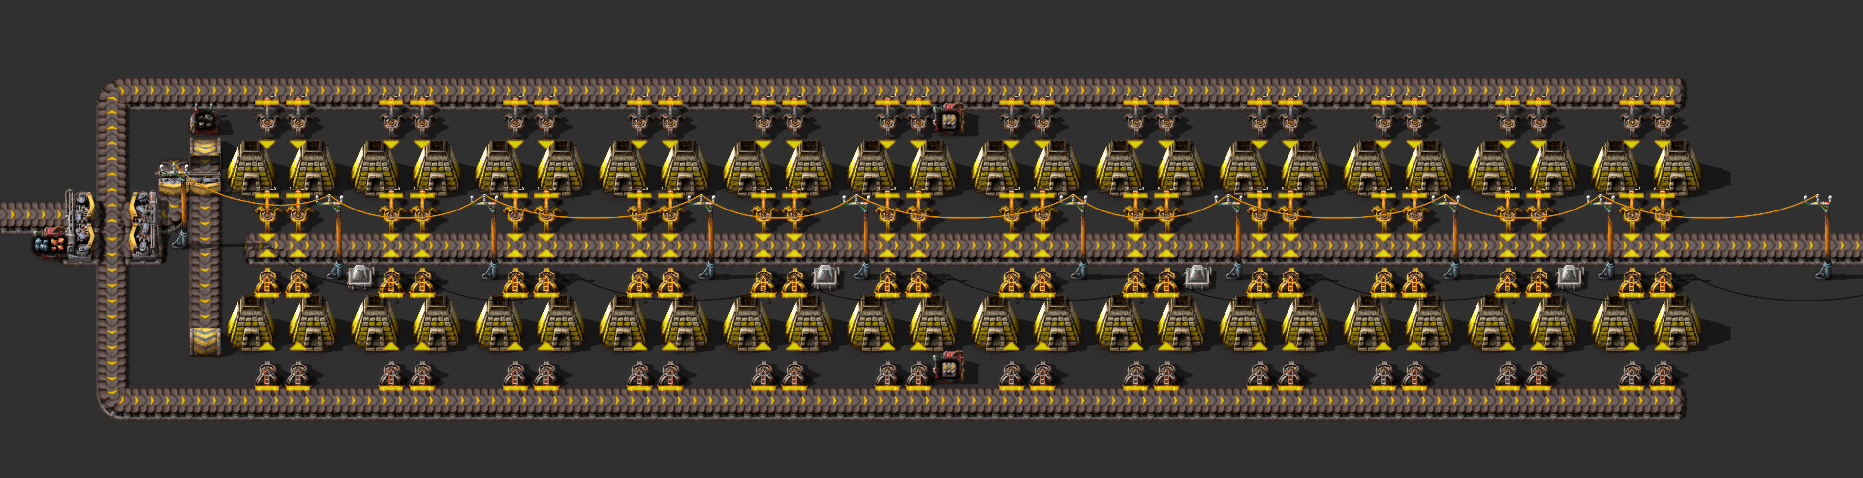
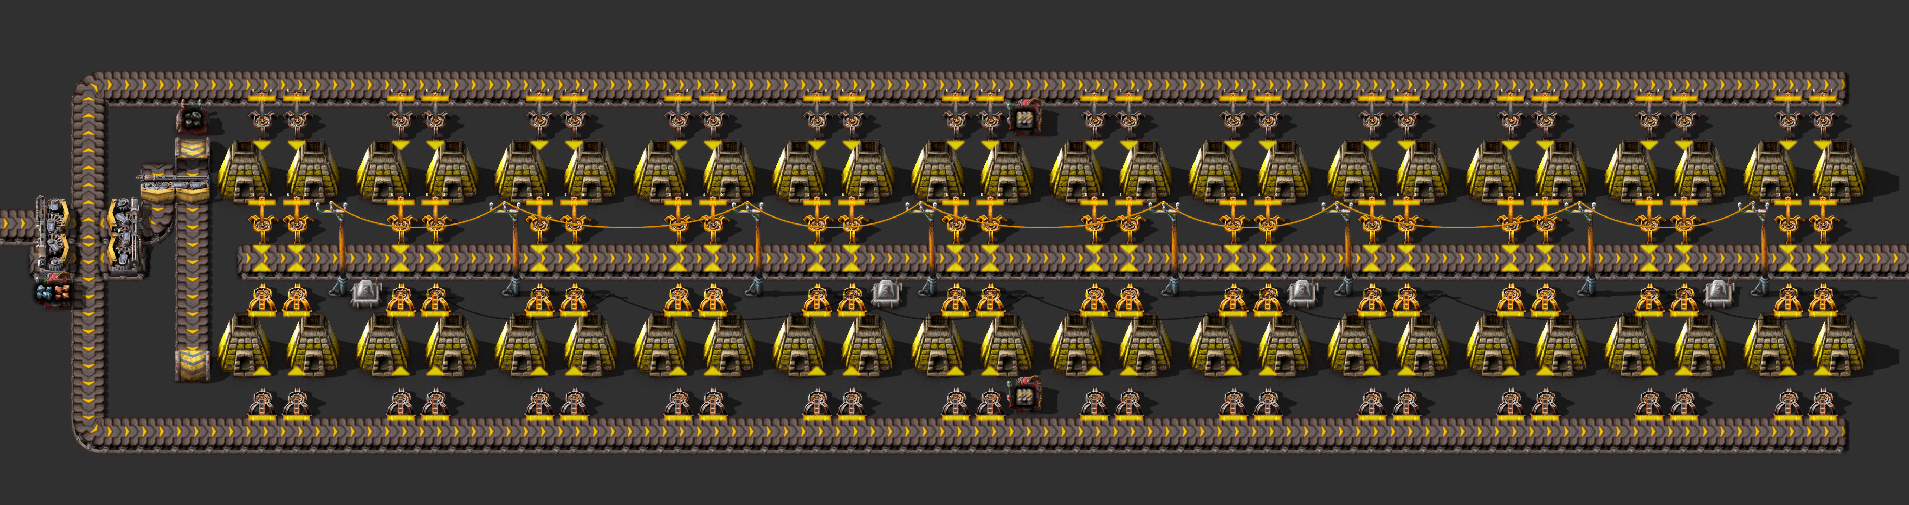
updated article

diff --git a/docs/RawResourcesProcessing/README.md b/docs/RawResourcesProcessing/README.md
@@ -1,5 +1,13 @@
 # Плавка ресурсов
 
+:::info Капитан очевидность
+В игре пресутсвуют [три типа плавильных печей](https://wiki.factorio.com/Furnace): каменные `Stone furnace`, стальные `Steel furnace` и электрические `Electric furnace`. Каменные печи доступны сразу, одна даже будет в рюкзаке при старте игры. Стальные печи появятся чуть позже, освоить их использование возможно до момента [первого выхода с базы](../HowToStartNewGame/README.md#первый-выход-с-базы), то есть в течении первых часов игры. Электрические же печи станут доступны исчё позже, внедрить несколько электрических штучек, особенно для плавки камней `Stone`, можно будет с открытием фиолетовой науки, она же производственный исследовательский пакет `Production science pack`. Массовый же переход на них производим [после запуска первого спутника](../HowToStartNewGame/README.md#после-запуска-спутника). До наличия достаточного количества ресурсов (дофига нужно) для производства вторых модулей эффективности `Efficiency module 2` проку в электрической плавке немного.
+:::
+
+:::warning Будет много картинок и не только
+Статья напичкана всякими подробностями от которых можно [впасть в объятия Морфея](https://ru.wikipedia.org/wiki/%D0%9C%D0%BE%D1%80%D1%84%D0%B5%D0%B9).
+:::
+
 :::info Плавятся не все ресурсы, а только:
 * железная руда `Iron ore` в железные плиты `Iron plate`,
 * медная руда `Copper ore` в медные плиты `Copper plate`,
@@ -7,25 +15,17 @@
 * а также железные плиты `Iron plate` в стальные балки `Steel plate`.
 :::
 
-:::warning Будет много картинок и не только
-Статья напичкана всякими подробностями от которых можно [впасть в объятия Морфея](https://ru.wikipedia.org/wiki/%D0%9C%D0%BE%D1%80%D1%84%D0%B5%D0%B9).
-:::
-
-:::info Капитан очевидность
-В игре пресутсвуют [три типа плавильных печей](https://wiki.factorio.com/Furnace): каменные `Stone furnace`, стальные `Steel furnace` и электрические `Electric furnace`. Каменные печи доступны сразу, одна даже будет в рюкзаке при старте игры. Стальные печи появятся чуть позже, освоить их использование возможно до момента [первого выхода с базы](../HowToStartNewGame/README.md#первый-выход-с-базы), то есть в течении первых часов игры. Электрические же печи массово вводим в эксплуатацию [после запуска первого спутника](../HowToStartNewGame/README.md#после-запуска-спутника), до массового производства вторых модулей эффективности `Efficiency module 2` проку в электрической плавке немного. Хотя, внедрить несколько электрических штучек для плавки камней `Stone` и стальных балок `Steel plate` можно с открытием фиолетовой науки, она же производственный исследовательский пакет `Production science pack`.
-:::
-
 ## Самое начало
 
-Начав игру будут доступны только ограниченные возможности по добыче и плавке ресурсов. Придётся таскать всё что можно в рюкзаке `Toolbelt` между твёрдотопливными бурами `Burner mining drill` и каменными печами `Stone furnace`, а именно уголь `Coal`, всякую руду как `Iron ore` и `Copper ore`, камни `Stone`, даже древесину `Wood`, которая может сгодиться в качестве [топлива](https://wiki.factorio.com/Fuel). Какая-то автоматизация по доставке угля от места добычи к паровой электростанции появиться где-то на двадцатой или тридцатой минуте игры. Много рассказывать тут нечего, особых чертежей не предусмотрено, просто ставьте каменные печи по краям ресурсных пятен и мучайтесь туда-сюда. Всё описано в [добыче ресурсов](../MiningResources/README.md#добыча-твёрдотопливный-бурами). А вот первую полноценную кузницу можно будет запустить ещё позже, примерно на тридцатой или сороковой минуте игры. Типичное начало любой игры *Factorio*:
+Начав игру будут доступны только ограниченные возможности по добыче и плавке ресурсов. Придётся таскать всё что можно в рюкзаке `Toolbelt` между твёрдотопливными бурами `Burner mining drill` и каменными печами `Stone furnace`, а именно уголь `Coal`, всякую руду как `Iron ore` и `Copper ore`, камни `Stone`, даже древесину `Wood`, которая может сгодиться в качестве [топлива](https://wiki.factorio.com/Fuel) (хотя дровишки лучше пускать на опоры ЛЭП `Small electric pole`). Какая-то автоматизация по доставке угля от места добычи к паровой электростанции появиться где-то на двадцатой или тридцатой минуте игры. Много рассказывать тут нечего, особых чертежей не предусмотрено, просто ставьте каменные печи по краям ресурсных пятен и мучайтесь туда-сюда. Всё описано в [добыче ресурсов](../MiningResources/README.md#добыча-твёрдотопливный-бурами). А вот первую полноценную кузницу можно будет запустить ещё позже, примерно на тридцатой или сороковой минуте игры. Типичное начало любой игры *Factorio*:
 
 ![Плавка в начале игры](../_images/MiningResources/MiningResources.02.png)
 
 ## Теория плавления ресурсов и кузницы
 
-Наука сия в *Factorio* весьма скучна. Нужно просто помнить соотношения плавки к транспортировке и просто копипастить предлагаемые чертежи `Blueprint` без особого осмысления. Кому скучно переходите к [следующей главе](#чертежи-для-плавки-руд), там будут готовые чертежи, а для задротов и очкариков продолжим копаться.
+Наука сия в *Factorio* весьма скучна. Нужно просто помнить соотношения плавки к транспортировке и просто копипастить предлагаемые чертежи `Blueprint` без особого осмысления. Кому скучно переходите к [следующей главе](#чертежи-для-плавки-руд), там будут готовые чертежи, а задротов и очкариков виллкоммен тута.
 
-Итак, мы имеем на входе уголь (или любое другое топливо) и добываемый ресурс (руды или камни). На выходе имеем выплавленные предметы (плиты, балки или каменные блоки). У нас нет особых скоростных ограничений по поставке входных ресурсов, как и выходных (кроме ситуации с камнями, о чём позже). Печи плавят не спешно и вдумчиво, с очень интересной анимацией за которой можно наблюдать часами. А значить, мы можем организовать поставку топлива на одной половине конвейера, а поставку ресурсов на другой половине того же конвейера (синяя стрелка на картинке). Манипуляторы сгодятся любые, даже твёрдотопливные, чтобы загружать и топливо и ресурсы. С другой стороны печей организовываем выгрузку выплавленного (красная стрелка). Визуализируем:
+Итак, мы имеем на входе уголь (или любое другое топливо) и добываемый ресурс (руды или камни). На выходе имеем выплавленные предметы (плиты, балки или каменные блоки). У нас нет особых скоростных ограничений по поставке входных ресурсов, как и выходных (кроме ситуации с камнями, о чём позже). Печи плавят не спешно и вдумчиво, с очень интересной анимацией за которой можно наблюдать часами. А значить, мы можем организовать поставку топлива на одной половине конвейера, а поставку ресурсов на другой половине того же конвейера (синяя стрелка на картинке). Манипуляторы сгодятся любые, даже твёрдотопливные, чтобы загружать и топливо и ресурсы. С другой стороны печей организовываем выгрузку выплавленного (красная стрелка), тут придётся тянуть линию электропередач, так как твёрдотопливные манипуляторы заряжаться топливом из печей не умеют. Визуализируем:
 
 ![Плавим печами](../_images/RawResourcesProcessing/RawProcessing.00.png)
 
@@ -37,7 +37,7 @@
 
 ![Плавим печами](../_images/RawResourcesProcessing/RawProcessing.01.png)
 
-Альтернативно, можно подавать ресурсы и посередине, а выгружать по сторонам с последующим объединением выгружающих конвейеров где-то в конце. Но так не делайте, очевидно что это ересь и за такое всем выдающим себя за инженеров в аду выделен отдельный котёл. Следующее от лукавого:
+Можно было бы подавать ресурсы и посередине, а выгружать по сторонам с последующим объединением выгружающих конвейеров где-то в конце. Но так не делайте, очевидно что это ересь и за такое всем выдающим себя за инженеров в аду выделен отдельный котёл. Следующее от лукавого:
 
 ![Плавим печами](../_images/RawResourcesProcessing/RawProcessing.10.png)
 
@@ -56,7 +56,7 @@
 :::
 
 :::note Задача
-С учётом вышесказанного получается, что нам нужно организовать кузницу длиной в 24-е печки (каменные или стальные) по каждой стороне выгружаемого конвейера (обычного или быстрого). Со стальными балками проблем не возникнет, просто будет две печки вместо одной. С камнями исключение, их лучше всего плавить 24-мя стальными печами с быстрого конвейера выгружая на обычный, то есть по 12 стальных печей с каждой стороны (на крайняк по 24 каменные печи с каждой стороны). Анонимоусы подсказывают, что при правильной организации игры, плавить камни в больших кузницах вам не придётся. Каменных блоков потребуется не так уж и много да и в основном нужны они ближе к концу, с открытием фиолетовой науки. А тогда будут доступны уже и электрические печи. В начале игры можно и ручками поработать, выплавляя нужные каменные блоки на одиноких печках. Опять-таки исключение для игр типа миров смерти, там камни понадобятся в начале игры для массовых стен и чёрной науки, которая для оружия и обороны.
+С учётом вышесказанного получается, что нам нужно организовать кузницу длиной в 24-е печки по каждой стороне выгружаемого конвейера, то есть всего 48 печей на две линий конвейера подающие руду и топливо и выдающие одну линию конвейера переплавленного чего-то. Со стальными балками проблем не возникнет, просто будет две печки вместо одной, первая плавит руду, вторая железные плиты. С камнями исключение, их лучше всего плавить 24-мя стальными печами с быстрого конвейера выгружая на обычный, то есть по 12 стальных печей с каждой стороны (на крайняк по 24 каменные печи с каждой стороны). Анонимоусы подсказывают, что при правильной организации игры, плавить камни в больших кузницах вам не придётся. Каменных блоков потребуется не так уж и много да и в основном нужны они ближе к концу, с открытием фиолетовой науки. А тогда будут доступны уже и электрические печи. В начале игры каменные блоки не нужны для производства науки, можно и ручками поработать, выплавляя нужные каменные блоки на одиноких печках. Они нужны только для улучшения каменных печей до стальных, возведении нефтеперерабатывающих заводов и защиты базы стенами. Опять-таки исключение для игр типа миров смерти, там плавка камней может понадобится в начале игры для массовых стен и чёрной науки, которая для оружия и обороны.
 :::
 
 Существует множество дизайнов, различной степени правильности или не правильности, самодельных и научно обоснованных... Короче, существует один правильный чертёж кузницы для плавки всего и вся и множество не кошерных чертежей. Рассмотрим далее только кошерные, картина маслом:
@@ -71,11 +71,15 @@
 
 ### Чертёж первого уровня, каменные печи с твёрдотопливными манипуляторами
 
+Вот они те самые 48 каменных печей, по 24 печи с каждой линии выгружаемого конвейера:
+
 ![Плавим каменными печами](../_images/RawResourcesProcessing/RawProcessing.02.png)
 
 ```blueprint
[1 lines of base64/hex data omitted]
 ```
+
+Проанализируйте как подаётся топливо для печей и как организована подача электричества для выгружающих манипуляторов. На чертеже имеются постоянные комбинаторы с подсказками.
 
 ### Чертёж второго уровня, стальные печи на быстрых конвейерах
 
@@ -84,12 +88,12 @@
 :::tip Половина печей опустошает половину быстрого конвейера
 Вам нужно организовать подачу руды на быстрых конвейерах только для половины печей. Остальные печи могут питаться и от обычных конвейеров. То же самое и с выгрузкой. Быстрые конвейеры удовольствие совсем недешевое и нужно задумываться о том, где бы на них можно сэкономить.
 
-> На самом деле нужно делить не ровно пополам, а с прикупом на одну печь. Это избавит от иногда случающихся перекосов. А они почему-то случаются и образуют неравномерную разгрузко-погрузку.
+> На самом деле нужно делить не ровно пополам, а с прикупом на одну печь. Это избавит от иногда случающихся перекосов. А они почему-то случаются и образуют неравномерную разгрузко-погрузку. Правда это случается довольно редко и только на полностью загруженно-разгружаемой кузнице, когда все печи работают без остановки. То есть можно и забить на эту редкую ситуацию, всё равно стальные печи после запуска первого спутника пойдут улучшаться до электрических.
 
 Ориентируйтесь по маркерам на постоянных комбинаторах `Constant combinator` на середине кузницы, которые указывают где нужно остановить ли начать обновление.
 :::
 
-Также, заменяем твёрдотопливные манипуляторы на обычные, хотя можно и не спешить, если ресурсов добывается мало. Подаём ещё один простой конвейер ресурсов на вход и вуаля.
+Также, заменяем твёрдотопливные манипуляторы на обычные, хотя можно и не спешить, если ресурсов добывается мало. Не забываем подать ещё один простой конвейер ресурсов на вход и вуаля:
 
 ![Плавим стальными печами](../_images/RawResourcesProcessing/RawProcessing.03.png)
 
@@ -98,7 +102,7 @@
 ```
 
 :::tip Обратите внимание
-Подавать ресурсы лучше на двух жёлтых конвейерах `Transport belt`. В начале игры, пока со всем всё туго и нужно экономить, лучше использовать два обычных конвейера вместо одного быстрого `Fast transport belt`. Экономия пространства ничто по сравнению с экономией ресурсов.
+Подавать ресурсы лучше на двух жёлтых конвейерах `Transport belt`. В начале игры, пока со всем всё туго и нужно экономить, лучше использовать два обычных конвейера вместо одного быстрого `Fast transport belt`. До запуска первого спутника экономия пространства ничто по сравнению с экономией ресурсов.
 
 ![Сравнение конвейеров](../_images/HowToStartNewGame/Belts.01.png)
 
@@ -121,13 +125,15 @@
 
 ![Плавим печами](../_images/RawResourcesProcessing/RawProcessing.17.png)
 
-Однако, хотя школьники и правы, но предлагаемый чертёж не увеличивает количество ЛЭП. А вот киллерфича тут такая, что сдвоенные манипуляторы легче прокликать [манипулятором типа мышь](https://duckduckgo.com/?q=%D0%BC%D0%B0%D0%BD%D0%B8%D0%BF%D1%83%D0%BB%D1%8F%D1%82%D0%BE%D1%80+%D1%82%D0%B8%D0%BF%D0%B0+%D0%BC%D1%8B%D1%88%D1%8C+%D1%81+%D1%88%D0%B0%D1%80%D0%B8%D0%BA%D0%BE%D0%B2%D1%8B%D0%BC+%D0%BC%D0%B0%D0%BD%D0%B8%D0%BF%D1%83%D0%BB%D1%8F%D1%82%D0%BE%D1%80%D0%BE%D0%BC) (аж на пол процента?). Это даст больше времени на другие дела, а кликать кузницу придётся полностью, роботов не будет.
+Однако, хотя школьники и правы, но предлагаемый чертёж не увеличивает количество ЛЭП. А вот киллерфича тут такая, что сдвоенные манипуляторы легче прокликать [манипулятором типа мышь](https://duckduckgo.com/?q=%D0%BC%D0%B0%D0%BD%D0%B8%D0%BF%D1%83%D0%BB%D1%8F%D1%82%D0%BE%D1%80+%D1%82%D0%B8%D0%BF%D0%B0+%D0%BC%D1%8B%D1%88%D1%8C+%D1%81+%D1%88%D0%B0%D1%80%D0%B8%D0%BA%D0%BE%D0%B2%D1%8B%D0%BC+%D0%BC%D0%B0%D0%BD%D0%B8%D0%BF%D1%83%D0%BB%D1%8F%D1%82%D0%BE%D1%80%D0%BE%D0%BC) (аж на пол процента?). Это даст больше времени на другие дела, а кликать кузницу придётся полностью, обещанных выше роботов на момент обновления ещё не будет.
 
 :::
 
 ## Чертежи для плавки железной руды в стальные балки
 
-Для плавки стальных балок `Steel plate` нам придётся задвоить как-то плавильные печи. Это можно сделать двумя способами. Можно поставить печи в два ряда, на первом ряде будем плавить железную руду, на втором будем выплавлять стальные балки. А можно взять предыдущий чертёж и продублировать его ещё один раз. То есть сначала плавим железную руду и складируем на конвейер, а потом плавим железные плиты отдельно. В силу определённых причин, второй подход ересь, не забываем про котлы в аду для плохих инженеров:
+Для плавки стальных балок `Steel plate` нам придётся задвоить как-то плавильные печи. Это можно сделать двумя способами. Можно поставить печи в два ряда, на первом ряде будем плавить железную руду, на втором будем выплавлять стальные балки. Это хороший вариант.
+
+А вот не хороший. Можно взять предыдущий чертёж и продублировать его ещё один раз. То есть сначала плавим железную руду и складируем на конвейер, а потом плавим железные плиты отдельно. В силу определённых причин не забываем про котлы в аду для плохих инженеров, так не делайте:
 
 ![Так стальные балки плавить нельзя](../_images/RawResourcesProcessing/RawProcessing.05.png)
 
@@ -143,7 +149,7 @@
 
 ### Чертёж второго уровня, стальные печи на быстрых конвейерах
 
-Получить такой чертёж из предыдущего можно так же как и раньше. Заменяем старое на новое, проводим липестричество по краям, подаем ещё один конвейер ресурсов и всё.
+Улучшим кузницу до стальных печей, усё как и прежде. Заменяем старое на новое, проводим липестричество по краям, подаем ещё один конвейер ресурсов и всё.
 
 ![Плавим стальными печами](../_images/RawResourcesProcessing/RawProcessing.08.png)
 
@@ -151,7 +157,7 @@
[1 lines of base64/hex data omitted]
 ```
 
-Обратите внимание на распределение угля в этих чертежах. Гуляющие по интернетам подобные чертежи имеют не оптимальную реализацию подачи угля из докучи не нужных подземных конвейеров `Underground belt`. Тут предлагается исправленный вариант с меньшим количеством подземных конвейеров:
+Для печей выплавляющих стальные балки, важно подавать уголь только на ближней стороне конвейера, так как на дальнюю печи будут выгружать выплавленные балки. Обратите внимание на распределение угля в этих чертежах. Гуляющие по интернетам подобные чертежи имеют не оптимальную реализацию подачи угля из докучи не нужных подземных конвейеров `Underground belt`. Тут предлагается исправленный вариант с меньшим количеством подземных конвейеров:
 
 ![Исправленная ошибка подачи угля](../_images/RawResourcesProcessing/RawProcessing.09.png)
 
@@ -159,7 +165,7 @@
 
 ## Плавим камушки
 
-Тут по сложнее, как указывалось выше камни `Stone` не плавятся один к одному, а значить наши твёрдотопливные манипуляторы уже не будут успевать загружать и камни и топливо. Точнее успевают то будут, но и работать также будут постоянно, а это значить что профта нэма. В плане стальных печей, не успевать будут уже и обычные манипуляторы. Потребуются либо быстрые манипуляторы `Fast inserter`, либо бонус вместимости манипулятора `Inserter capacity bonus`, [второго уровня, который даёт +1 всем манипуляторам](https://wiki.factorio.com/Inserter_capacity_bonus_(research)).
+Тут по сложнее, как указывалось выше камни `Stone` не плавятся один к одному, а значить наши твёрдотопливные манипуляторы уже не будут успевать загружать и камни и топливо. Точнее успевают то будут, но и работать также будут постоянно, а это значить что профита нэма. В плане стальных печей, не успевать будут уже и обычные манипуляторы. Потребуются либо быстрые манипуляторы `Fast inserter`, либо бонус вместимости манипулятора `Inserter capacity bonus`, [второго уровня, который даёт +1 всем манипуляторам](https://wiki.factorio.com/Inserter_capacity_bonus_(research)).
 
 :::info Как же поступить?
 
@@ -191,9 +197,11 @@
[1 lines of base64/hex data omitted]
 ```
 
+На этом плавка топливом заканчивается и переходим к электричеству, которое экологически чистое, если модулей в печи понапихать соответствующих.
+
 ## После запуска первого спутника
 
-Наконец-то наступает эпоха липестричества. Все имеющиеся стальные (каменные надеюсь уже заменены) печи заменяем на липестрические `Electric furnace` и вставляем по два модуля эффективности второго уровня в каждую печь `Efficiency module 2`. Поскольку для электрических печей не нужно топливо, подачу ресурсов и выгрузку переплавленного можно организовать внутри кузницы. По синей стрелке на рисунке ресурсы подаются, по красной выгружаются плиты.
+Тут наступает наконец-то эпоха липестричества. Все имеющиеся стальные (каменные надеюсь уже заменены) печи заменяем на липестрические `Electric furnace` и вставляем по два модуля эффективности второго уровня в каждую печь `Efficiency module 2`. Поскольку для электрических печей не нужно топливо, подачу ресурсов и выгрузку переплавленного можно организовать внутри кузницы. По синей стрелке на рисунке ресурсы подаются, по красной выгружаются плиты.
 
 ![Плавим электрическими печами](../_images/RawResourcesProcessing/RawProcessing.04.png)
 
@@ -201,7 +209,7 @@
[1 lines of base64/hex data omitted]
 ```
 
-И для плавки стальных балок `Steel plate` из конвейера руды `Transport belt`:
+И для плавки стальных балок `Steel plate` из одного конвейера руды `Transport belt`:
 
 ![Плавим электрическими печами](../_images/RawResourcesProcessing/RawProcessing.12.png)
 
@@ -211,7 +219,7 @@
 
 Откровенно говоря, дизайн электрических печей не айс, там ещё деревянные опоры ЛЭП `Small electric pole` присутствуют. Их менять придётся на средние опоры `Medium electric pole` для массового производства, хотя с древесиной обычно проблем не бывает. А ещё по размеру электрические печи не совместимы с предыдущими... В общем проблем с обновлением будет, планируйте заранее как будете обновляться, ещё до начала игры. Но это самый маленький и удаленький из возможных чертежей, остальные хуже по площади, а размеры уже имеют значение, особенно когда нужно сто-пятьсот таких полос построить.
 
-Чертёж второго уровня для плавки быстрого конвейера `Fast transport belt`:
+Чертёж второго уровня для плавки одного быстрого конвейера `Fast transport belt`:
 
 ![Плавим электрическими печами](../_images/RawResourcesProcessing/RawProcessing.14.png)
 
@@ -219,7 +227,9 @@
[1 lines of base64/hex data omitted]
 ```
 
-И самый последний чертёж третьего уровня, для плавки экспресс-конвейера `Express transport belt`:
+Отметим также, что не все линии нужно делать на быстрых конвейерах. Вспоминаем как мы обновлялись на стальные печи, тут усё то же самое.
+
+И самый последний чертёж третьего уровня, для плавки одного экспресс-конвейера `Express transport belt`:
 
 ![Плавим электрическими печами](../_images/RawResourcesProcessing/RawProcessing.15.png)
 
@@ -234,6 +244,8 @@
 ```blueprint
[1 lines of base64/hex data omitted]
 ```
+
+Отметим разницу, каменные кузницы на стальные обновлялись простой заменой с увеличением количества линий подачи. С электричеством так не получиться, кузница растёт в длину с ростом количества подающих конвейеров.
 
 ## Модули производительности и гигаватты мегаваттов
 
